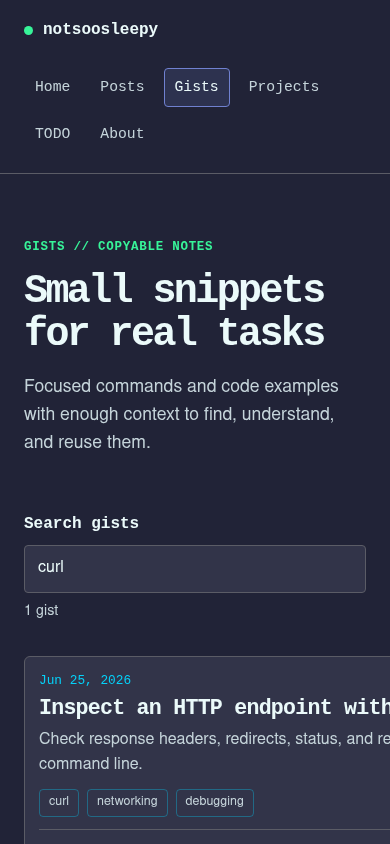
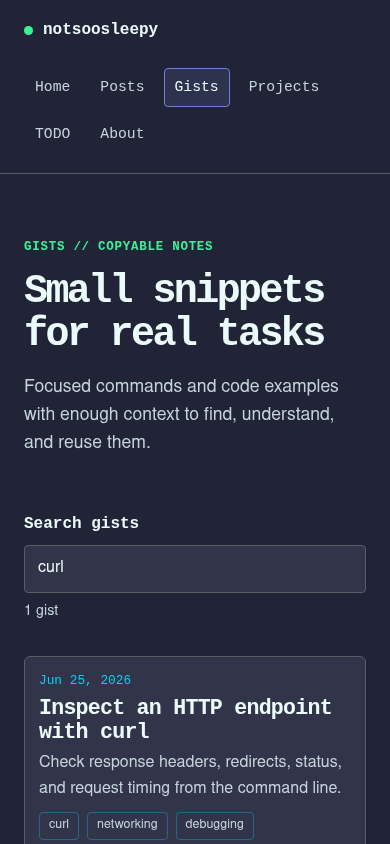
Add project visual evidence

Changed region(s): [[0.0923, 0.8318, 0.8615, 1.0], [0.8615, 0.8009, 1.0, 0.8934], [0.9231, 0.955, 0.9538, 0.9858]]

diff --git a/tests/e2e/routes.spec.ts b/tests/e2e/routes.spec.ts
@@ -50,3 +50,28 @@ test("footer links point to the public profiles and RSS feed", async ({ page }) 
     "/rss.xml"
   );
 });
+
+test("project evidence images load within the mobile viewport", async ({ page }) => {
+  await page.setViewportSize({ width: 390, height: 844 });
+  await page.goto("/projects/notsoosleepy-blog-platform");
+
+  const images = page.locator("article img");
+  const imageCount = await images.count();
+  expect(imageCount).toBeGreaterThanOrEqual(2);
+
+  for (let index = 0; index < imageCount; index += 1) {
+    const image = images.nth(index);
+    await image.scrollIntoViewIfNeeded();
+    await expect
+      .poll(() =>
+        image.evaluate((element) =>
+          element instanceof HTMLImageElement ? element.naturalWidth : 0
+        )
+      )
+      .toBeGreaterThan(0);
+
+    const box = await image.boundingBox();
+    expect(box).not.toBeNull();
+    if (box) expect(box.x + box.width).toBeLessThanOrEqual(390);
+  }
+});

diff --git a/src/styles/global.css b/src/styles/global.css
@@ -311,6 +311,22 @@ h3 {
   overflow-wrap: anywhere;
 }
 
+.rendered-content img {
+  display: block;
+  width: 100%;
+  height: auto;
+  margin: 28px 0 0;
+  border: 1px solid var(--line);
+  border-radius: 6px;
+  background: var(--panel);
+}
+
+.rendered-content .media-caption {
+  margin: 8px 0 28px;
+  color: var(--faint);
+  font-size: 0.85rem;
+}
+
 .rendered-content pre {
   overflow-x: auto;
   margin: 24px 0;

diff --git a/src/content/projects/notsoosleepy-blog-platform.md b/src/content/projects/notsoosleepy-blog-platform.md
@@ -16,6 +16,10 @@ The deployed site is available at
 [blog-site.runcorx.workers.dev](https://blog-site.runcorx.workers.dev), and the source
 is public on [GitHub](https://github.com/notsooSleepy/blog-site).
 
+![The notsoosleepy homepage showing the site navigation, introduction, latest post, and project card.](../../assets/projects/notsoosleepy-blog-platform/homepage-desktop.png)
+
+<p class="media-caption">The desktop homepage keeps the current work and latest writing visible without a separate landing page.</p>
+
 ## Architecture
 
 The site uses Astro's static output. Markdown and JSON content pass through typed
@@ -60,6 +64,10 @@ The gist index required the most interaction work. Each entry keeps a native lin
 normal browser behavior while code, references, and copy controls remain independently
 interactive. Tags become search buttons when JavaScript is available and remain plain
 labels when it is not.
+
+![The mobile gist index filtered to the curl tag with one matching result.](../../assets/projects/notsoosleepy-blog-platform/gists-mobile.png)
+
+<p class="media-caption">Tag filters update the searchable gist index on a narrow mobile viewport without widening the page.</p>
 
 The deployment pipeline produces more than pages:
 
@@ -125,11 +133,12 @@ Result (23 files):
 - 0 warnings
 - 0 hints
 
-19 passed
+20 passed
 ```
 
-The production checker currently verifies nine pages, three discovery files, generated
-assets, canonical HTTPS URLs, profile links, and Markdown references:
+The production checker verifies core pages, discovery files, generated assets, canonical
+HTTPS URLs, profile links, and Markdown references. The last run before embedding the
+project screenshots reported:
 
 ```text
 PASS checked 9 pages, 3 discovery files, and 25 linked resources